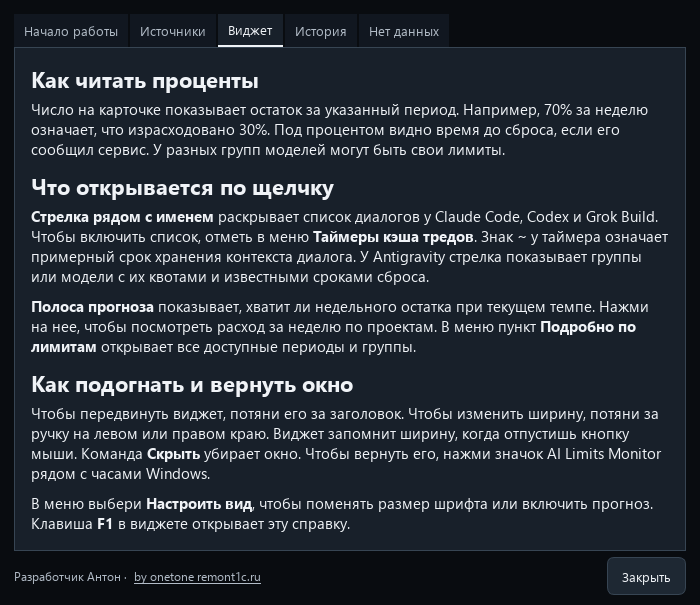
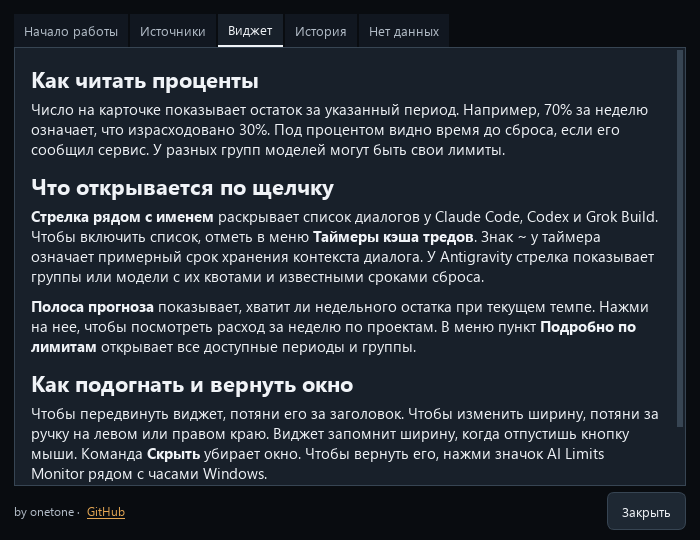
fix(оформление): оставить псевдоним и ссылки GitHub
Оформить страницу проекта в зеленой и золотой палитре R1. Обновить подпись, снимки и сведения о правообладателе для выпуска 2.0.5.

YouGile-Task: 992855d5-9180-4e22-b48b-54827fa10271

Changed region(s): [[0.0, 0.0296, 0.99, 1.0]]

diff --git a/claude_usage_manager/quota_monitor.py b/claude_usage_manager/quota_monitor.py
@@ -10,7 +10,7 @@ from PySide6.QtSvg import QSvgRenderer
 from PySide6.QtSvgWidgets import QSvgWidget
 from PySide6.QtWidgets import QApplication,QBoxLayout,QCheckBox,QComboBox,QDialog,QDialogButtonBox,QFrame,QGridLayout,QHBoxLayout,QLabel,QLayout,QLineEdit,QMainWindow,QMenu,QMessageBox,QPushButton,QSizePolicy,QSlider,QStyle,QStyleOptionToolButton,QStylePainter,QSystemTrayIcon,QToolButton,QVBoxLayout,QWidget
 from .antigravity_details_qt import AntigravityDetails
-from .author_credit import author_site_button
+from .author_credit import github_link_button
 from .database import Database
 from .subscription_payments import next_monthly_payment, parse_last_payment
 from .icon import brand_svg, ensure_icon
@@ -668,12 +668,11 @@ class MonitorWindow(QMainWindow):
         author_row = QHBoxLayout()
         author_row.setContentsMargins(6, 0, 0, 0)
         author_row.setSpacing(4)
-        author = ElidedLabel("Антон (onetone)")
+        author = ElidedLabel("by onetone")
         author.setObjectName("WidgetAuthor")
-        author.setAccessibleName("Разработчик Антон (onetone)")
-        author.setToolTip("Разработчик Антон (onetone)")
+        author.setAccessibleName("Разработчик onetone")
         author_row.addWidget(author, 1)
-        author_row.addWidget(author_site_button("remont1c.ru", "WidgetAuthorLink"))
+        author_row.addWidget(github_link_button("WidgetAuthorLink"))
         layout.addLayout(author_row)
         self._build_grips()
 
@@ -1522,13 +1521,13 @@ STYLE=f'''
 QLabel#WidgetTitle{{font-family:"Segoe UI";font-size:10.5pt;font-weight:700;color:{COLORS['text']};}}
 QLabel#UpdatedLabel,QLabel#WidgetFooter{{color:{COLORS['faint']};font-size:7.5pt;}}
 QLabel#WidgetFooter{{padding-left:6px;}}
-QLabel#WidgetAuthor,QPushButton#WidgetAuthorLink{{color:{COLORS['muted']};font-size:7.5pt;}}
+QLabel#WidgetAuthor{{color:{COLORS['muted']};font-size:7.5pt;}}
 QPushButton#WidgetAuthorLink{{
-    background:transparent;text-decoration:underline;border:1px solid transparent;
+    background:transparent;color:#e4a653;font-size:7.5pt;text-decoration:underline;border:1px solid transparent;
     border-radius:3px;padding:0 2px;min-height:16px;
 }}
 QPushButton#WidgetAuthorLink:hover{{color:{COLORS['text']};}}
-QPushButton#WidgetAuthorLink:focus{{border-color:#91BDF0;}}
+QPushButton#WidgetAuthorLink:focus{{border-color:#e4a653;}}
 QFrame#WidgetActions{{background:#141D27;border:none;border-radius:7px;}}
 QPushButton#WidgetCommand,QPushButton#HideWidget,QToolButton#CardDisclosure{{
     background:transparent;color:#DBE4ED;border:1px solid transparent;border-radius:4px;

diff --git a/claude_usage_manager/help_dialog.py b/claude_usage_manager/help_dialog.py
@@ -6,7 +6,7 @@ from PySide6.QtWidgets import (
     QDialog, QDialogButtonBox, QHBoxLayout, QLabel, QTabWidget, QTextBrowser, QVBoxLayout, QWidget,
 )
 
-from .author_credit import author_site_button
+from .author_credit import github_link_button
 from .qt_theme import COLORS
 
 
@@ -143,13 +143,13 @@ class HelpDialog(QDialog):
                 border: none; font-size: 11pt;
                 selection-background-color: {COLORS['selection']};
             }}
-            QLabel#HelpAuthor, QPushButton#HelpCredit {{ color: {COLORS['muted']}; font-size: 9pt; }}
+            QLabel#HelpAuthor {{ color: {COLORS['muted']}; font-size: 9pt; }}
             QPushButton#HelpCredit {{
-                background: transparent; text-decoration: underline;
+                background: transparent; color: #e4a653; font-size: 9pt; text-decoration: underline;
                 border: 1px solid transparent; border-radius: 3px; padding: 1px 3px; min-height: 18px;
             }}
             QPushButton#HelpCredit:hover {{ color: {COLORS['text']}; }}
-            QPushButton#HelpCredit:focus {{ border-color: {COLORS['muted']}; }}
+            QPushButton#HelpCredit:focus {{ border-color: #e4a653; }}
         """)
         layout = QVBoxLayout(self)
         layout.setContentsMargins(14, 14, 14, 10)
@@ -172,10 +172,10 @@ class HelpDialog(QDialog):
             self.tabs.addTab(page, title)
         footer = QHBoxLayout()
         footer.setSpacing(3)
-        author = QLabel("Разработчик Антон ·")
+        author = QLabel("by onetone ·")
         author.setObjectName("HelpAuthor")
         footer.addWidget(author)
-        credit = author_site_button("by onetone remont1c.ru", "HelpCredit")
+        credit = github_link_button("HelpCredit")
         footer.addWidget(credit, 0, Qt.AlignmentFlag.AlignLeft)
         buttons = QDialogButtonBox(QDialogButtonBox.StandardButton.Close)
         buttons.button(QDialogButtonBox.StandardButton.Close).setText("Закрыть")

diff --git a/tests/test_help_dialog.py b/tests/test_help_dialog.py
@@ -66,7 +66,7 @@ def test_help_sections_and_scroll_work_from_keyboard():
     assert dialog.isVisible()
 
 
-def test_help_credit_opens_developer_site_only_when_activated(monkeypatch):
+def test_help_credit_opens_github_only_when_activated(monkeypatch):
     app = QApplication.instance() or QApplication([])
     opened_urls = []
 
@@ -81,10 +81,10 @@ def test_help_credit_opens_developer_site_only_when_activated(monkeypatch):
 
     author = dialog.findChild(QLabel, "HelpAuthor")
     credit = dialog.findChild(QPushButton, "HelpCredit")
-    assert "Разработчик Антон" in author.text()
+    assert author.text() == "by onetone ·"
     accessible = QAccessible.queryAccessibleInterface(credit)
     assert accessible.role() == QAccessible.Role.Button
-    assert accessible.text(QAccessible.Text.Name) == "by onetone remont1c.ru"
+    assert accessible.text(QAccessible.Text.Name) == "GitHub"
     QTest.mouseClick(author, Qt.MouseButton.LeftButton)
     assert opened_urls == []
 
@@ -96,9 +96,9 @@ def test_help_credit_opens_developer_site_only_when_activated(monkeypatch):
     QTest.keyClick(credit, Qt.Key.Key_Return)
     QTest.keyClick(credit, Qt.Key.Key_Enter)
     QTest.mouseClick(credit, Qt.MouseButton.LeftButton)
-    assert opened_urls == ["https://remont1c.ru"] * 3
+    assert opened_urls == ["https://github.com/antonnevm-cloud/ai-limits-monitor"] * 3
 
     page.setFocus()
     QTest.keyClick(page, Qt.Key.Key_Return)
-    assert opened_urls == ["https://remont1c.ru"] * 3
+    assert opened_urls == ["https://github.com/antonnevm-cloud/ai-limits-monitor"] * 3
     assert not dialog.isVisible()

diff --git a/tests/test_unified_monitor.py b/tests/test_unified_monitor.py
@@ -137,7 +137,7 @@ def test_help_from_shared_menu_and_keyboard_reuses_one_window(tmp_path):
         db.close()
 
 
-def test_widget_shows_author_and_opens_website_only_on_activation(tmp_path, monkeypatch):
+def test_widget_shows_author_and_opens_github_only_on_activation(tmp_path, monkeypatch):
     app = qapp()
     db = Database(tmp_path / "ui.sqlite")
     db.set_setting("monitor_width", "316")
@@ -150,15 +150,15 @@ def test_widget_shows_author_and_opens_website_only_on_activation(tmp_path, monk
         app.processEvents()
         author = window.findChild(QLabel, "WidgetAuthor")
         link = window.findChild(QPushButton, "WidgetAuthorLink")
-        assert author.isVisible() and author.text() == "Антон (onetone)"
-        assert link.isVisible() and link.text() == "remont1c.ru"
+        assert author.isVisible() and author.text() == "by onetone"
+        assert link.isVisible() and link.text() == "GitHub"
         assert window.width() == 316
         QTest.mouseClick(author, Qt.MouseButton.LeftButton)
         assert websites == []
         QTest.mouseClick(link, Qt.MouseButton.LeftButton)
         link.setFocus()
         QTest.keyClick(link, Qt.Key.Key_Return)
-        assert websites == ["https://remont1c.ru"] * 2
+        assert websites == ["https://github.com/antonnevm-cloud/ai-limits-monitor"] * 2
     finally:
         stop_window(window)
         db.close()

diff --git a/claude_usage_manager/author_credit.py b/claude_usage_manager/author_credit.py
@@ -1,19 +1,21 @@
-"""Ссылка на сайт разработчика в виджете и справке."""
+"""Ссылка на исходный проект в виджете и справке."""
 
 from PySide6.QtCore import Qt, QUrl
 from PySide6.QtGui import QDesktopServices, QKeySequence, QShortcut
 from PySide6.QtWidgets import QPushButton
 
 
-def author_site_button(text: str, object_name: str) -> QPushButton:
-    button = QPushButton(text)
+def github_link_button(object_name: str) -> QPushButton:
+    button = QPushButton("GitHub")
     button.setObjectName(object_name)
     button.setAutoDefault(False)
     button.setFlat(True)
     button.setFocusPolicy(Qt.FocusPolicy.StrongFocus)
     button.setCursor(Qt.CursorShape.PointingHandCursor)
-    button.setToolTip("Открыть сайт разработчика в браузере")
-    button.clicked.connect(lambda: QDesktopServices.openUrl(QUrl("https://remont1c.ru")))
+    button.setToolTip("Открыть исходный проект на GitHub")
+    button.clicked.connect(lambda: QDesktopServices.openUrl(QUrl(
+        "https://github.com/antonnevm-cloud/ai-limits-monitor"
+    )))
     shortcut = QShortcut(button)
     shortcut.setKeys([QKeySequence(Qt.Key.Key_Return), QKeySequence(Qt.Key.Key_Enter)])
     shortcut.setContext(Qt.ShortcutContext.WidgetShortcut)

diff --git a/README.md b/README.md
@@ -1,12 +1,12 @@
-<h1><img src="assets/r1.svg" width="34" height="34" alt="R1"> AI Limits Monitor</h1>
+<h1><img src="docs/images/cover.svg" width="880" alt="R1 AI Limits Monitor"></h1>
 
-Антон (onetone) · [remont1c.ru](https://remont1c.ru)
-
-**Остаток лимитов Claude Code, Codex, Grok Build и Antigravity в одном виджете для Windows.**
+[by onetone](https://github.com/antonnevm-cloud)
 
 Я сделал AI Limits Monitor, чтобы видеть, сколько осталось до исчерпания лимита и когда он обновится. В виджете виден остаток по периодам и группам моделей. Чтобы понять, куда ушел лимит, можно открыть историю расхода по проектам, диалогам и моделям.
 
-[Скачать для Windows](https://github.com/antonnevm-cloud/ai-limits-monitor/releases/download/preview-2.0.5/AI-Limits-Monitor-2.0.5-windows-x64-setup.exe) · [Подключить сервисы](#подключение-сервисов) · [Посмотреть аналитику](#аналитика-и-история)
+[<img src="docs/images/download-windows.svg" width="228" alt="Скачать для Windows">](https://github.com/antonnevm-cloud/ai-limits-monitor/releases/download/preview-2.0.5/AI-Limits-Monitor-2.0.5-windows-x64-setup.exe)
+
+[Подключить сервисы](#подключение-сервисов) · [Посмотреть аналитику](#аналитика-и-история)
 
 <p align="center">
   <img src="docs/images/widget.png" alt="Виджет AI Limits Monitor с остатками лимитов четырех сервисов">
@@ -89,7 +89,7 @@
 
 Код проекта доступен по [Apache License 2.0 с условием Commons Clause 1.0](LICENSE). Вы можете пользоваться программой, создавать форки, менять код и бесплатно распространять сборки. При распространении сохраняйте лицензию и [NOTICE](NOTICE) с именем автора и ссылками на исходный проект и сайт. Отмечайте измененные файлы.
 
-Для продажи программы или ее переработки, которая существенно основана на ее возможностях, требуется отдельная лицензия от автора. За коммерческой лицензией обращайтесь ко мне через [remont1c.ru](https://remont1c.ru).
+Для продажи программы или ее переработки, которая существенно основана на ее возможностях, требуется отдельная лицензия от автора. Условия платного распространения можно согласовать со мной через [GitHub](https://github.com/antonnevm-cloud).
 
 У сторонних библиотек и компонентов есть [собственные лицензии](packaging/licenses/README.md).
 

diff --git a/BUILD_SPEC.md b/BUILD_SPEC.md
@@ -9,7 +9,7 @@
 - Единственная пользовательская точка входа: `monitor.py`.
 - Виджет и встроенный сборщик работают в одном процессе. На чистой установке сборщик обращается к четырем настроенным источникам и передает данные окну внутри процесса. Обработчики --claude-statusline и --antigravity-statusline принимают только сведения о квотах через стандартный ввод.
 - При запуске открывается компактный монитор оставшихся лимитов.
-- Знак R1 с remont1c.ru расположен перед заголовком виджета и используется для значка приложения. Подпись Антона (onetone) и ссылка на сайт видны внизу виджета и в справке.
+- Фирменный знак R1 расположен перед заголовком виджета и используется для значка Windows. Подпись "by onetone" и ссылка на проект GitHub видны внизу виджета и в справке.
 - Для текущих квот SQLite выбирает только последние подходящие снимки. История остается доступна по запросу аналитики и прогноза.
 - Команда "Справка" в меню окна и значка рядом с часами открывает встроенное руководство. В окне виджета справка также доступна по F1.
 - Стрелка Antigravity раскрывает полученные от клиента группы или модели, остатки квот и известные сроки сброса. Раскрытие доступно независимо от таймеров диалогов других агентов.
